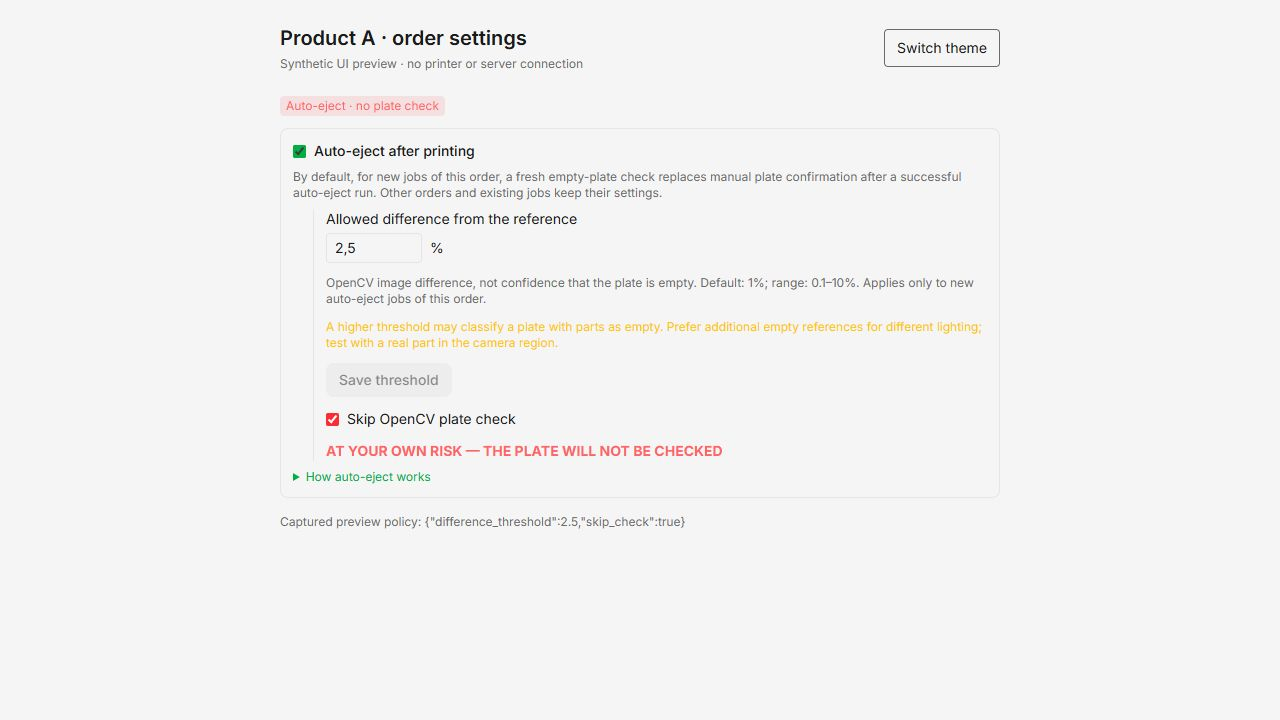
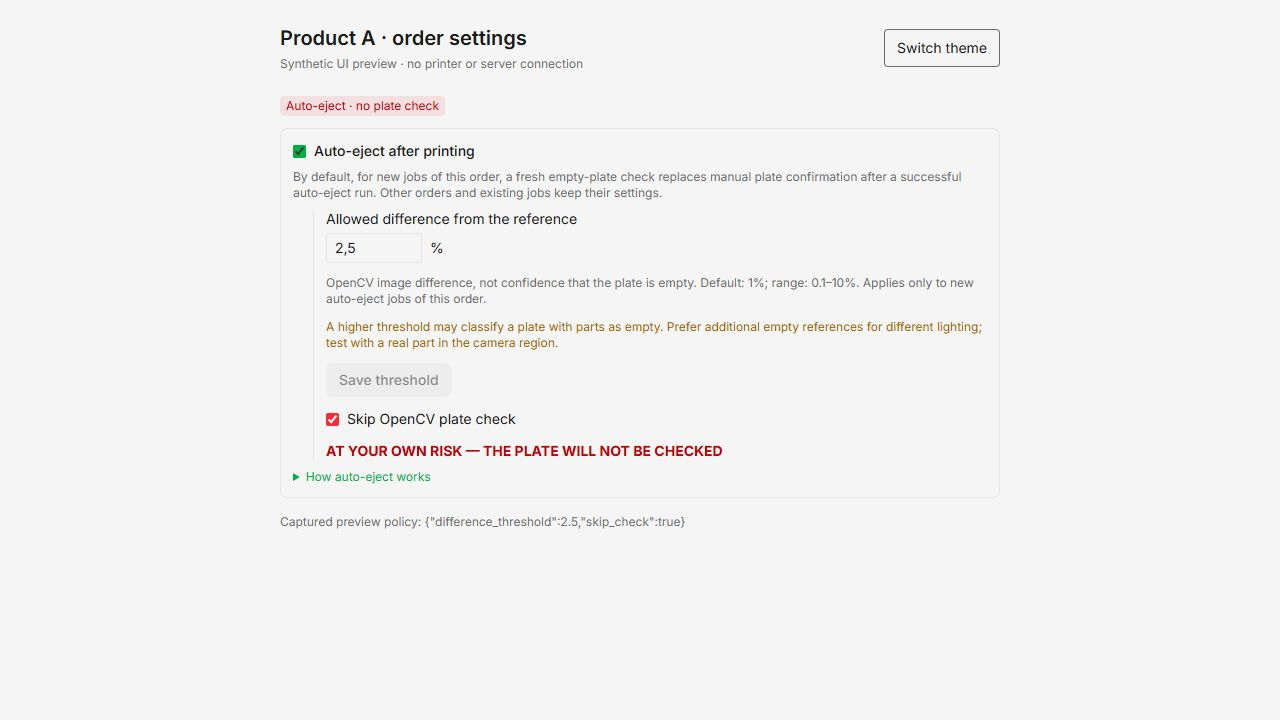
fix(ui): pair auto-eject warnings with light theme colors

Changed region(s): [[0.25, 0.4278, 0.7812, 0.4889], [0.25, 0.6111, 0.5625, 0.6417], [0.2188, 0.1222, 0.3438, 0.1528]]

diff --git a/frontend/src/components/projects/OrderAutoEject.tsx b/frontend/src/components/projects/OrderAutoEject.tsx
@@ -93,8 +93,8 @@ export function OrderAutoEject({ order, canEdit }: { order: Order; canEdit: bool
           </div>
         </label>
         <p className="text-xs text-bambu-gray">{t('autoEject.thresholdHelp')}</p>
-        {!validThreshold && <p role="alert" className="text-xs text-red-400">{t('autoEject.thresholdInvalid')}</p>}
-        {threshold > 1 && <p className="text-xs text-yellow-400">{t('autoEject.thresholdWarning')}</p>}
+        {!validThreshold && <p role="alert" className="text-xs text-red-700 dark:text-red-400">{t('autoEject.thresholdInvalid')}</p>}
+        {threshold > 1 && <p className="text-xs text-yellow-700 dark:text-yellow-400">{t('autoEject.thresholdWarning')}</p>}
         {mayEdit && <Button variant="secondary" size="sm"
           disabled={!validThreshold || threshold === policy.difference_threshold || toggle.isPending || policy.skip_check}
           onClick={() => save({ auto_eject_settings: { ...policy, difference_threshold: threshold } })}>
@@ -109,7 +109,7 @@ export function OrderAutoEject({ order, canEdit }: { order: Order; canEdit: bool
             }} />
           {t('autoEject.skipLabel')}
         </label>
-        {policy.skip_check && <p role="alert" className="text-sm font-bold text-red-400">{t('autoEject.riskTitle')}</p>}
+        {policy.skip_check && <p role="alert" className="text-sm font-bold text-red-700 dark:text-red-400">{t('autoEject.riskTitle')}</p>}
       </div>}
       <details className="text-xs text-bambu-gray">
         <summary className="cursor-pointer text-bambu-green">{t('autoEject.how')}</summary>
@@ -123,7 +123,7 @@ export function OrderAutoEject({ order, canEdit }: { order: Order; canEdit: bool
         </ol>
         <div className="mt-3"><ProfileHelp /></div>
       </details>
-      {toggle.error && !kind && <p role="alert" className="text-xs text-red-400">{toggle.error.message}</p>}
+      {toggle.error && !kind && <p role="alert" className="text-xs text-red-700 dark:text-red-400">{toggle.error.message}</p>}
       {kind === 'enable' && <ConfirmModal
         title={t('autoEject.confirmTitle')}
         message={t('autoEject.confirmMessage')}
@@ -144,7 +144,7 @@ export function OrderAutoEject({ order, canEdit }: { order: Order; canEdit: bool
             disabled={toggle.isPending} onChange={(event) => setAcknowledged(event.target.checked)} />
           {t('autoEject.confirmAcknowledgement')}
         </label>
-        {toggle.error && <p role="alert" className="mt-2 text-xs text-red-400">{toggle.error.message}</p>}
+        {toggle.error && <p role="alert" className="mt-2 text-xs text-red-700 dark:text-red-400">{toggle.error.message}</p>}
       </ConfirmModal>}
       {kind === 'skipFirst' && <ConfirmModal
         key="skip-first" title={t('autoEject.skipFirstTitle')} message={t('autoEject.skipFirstMessage')}
@@ -155,7 +155,7 @@ export function OrderAutoEject({ order, canEdit }: { order: Order; canEdit: bool
           setConfirmation({ orderId: order.id, kind: 'skipFinal' });
         }}
       >
-        <p className="text-lg font-bold text-red-400">{t('autoEject.riskTitle')}</p>
+        <p className="text-lg font-bold text-red-700 dark:text-red-400">{t('autoEject.riskTitle')}</p>
       </ConfirmModal>}
       {kind === 'skipFinal' && <ConfirmModal
         key="skip-final" title={t('autoEject.skipFinalTitle')} message={t('autoEject.skipFinalMessage')}
@@ -167,13 +167,13 @@ export function OrderAutoEject({ order, canEdit }: { order: Order; canEdit: bool
           });
         }}
       >
-        <p className="text-lg font-bold text-red-400">{t('autoEject.riskTitle')}</p>
+        <p className="text-lg font-bold text-red-700 dark:text-red-400">{t('autoEject.riskTitle')}</p>
         <label className="mt-4 flex items-start gap-2 text-sm text-white">
           <input type="checkbox" className="mt-1 accent-red-500" checked={acknowledged}
             disabled={toggle.isPending} onChange={(event) => setAcknowledged(event.target.checked)} />
           {t('autoEject.skipAcknowledgement')}
         </label>
-        {toggle.error && <p role="alert" className="mt-2 text-xs text-red-400">{toggle.error.message}</p>}
+        {toggle.error && <p role="alert" className="mt-2 text-xs text-red-700 dark:text-red-400">{toggle.error.message}</p>}
       </ConfirmModal>}
     </div>
   );

diff --git a/frontend/src/components/AutoEjectBadge.tsx b/frontend/src/components/AutoEjectBadge.tsx
@@ -4,7 +4,7 @@ import type { AutoEjectSettings } from '../api/client';
 export function AutoEjectBadge({ mode, settings }: { mode?: unknown; settings?: AutoEjectSettings | null }) {
   const { t } = useTranslation();
   return mode === true ? <span className={`inline-flex rounded px-1.5 py-0.5 text-xs ${settings?.skip_check
-    ? 'bg-red-500/10 text-red-400' : 'bg-bambu-green/10 text-bambu-green'}`}
+    ? 'bg-red-500/10 text-red-700 dark:text-red-400' : 'bg-bambu-green/10 text-bambu-green'}`}
     title={settings?.skip_check ? t('autoEject.riskTitle') : t('autoEject.requirements')}>
     {t(settings?.skip_check ? 'autoEject.badgeUnchecked' : 'autoEject.badge')}
   </span> : null;
